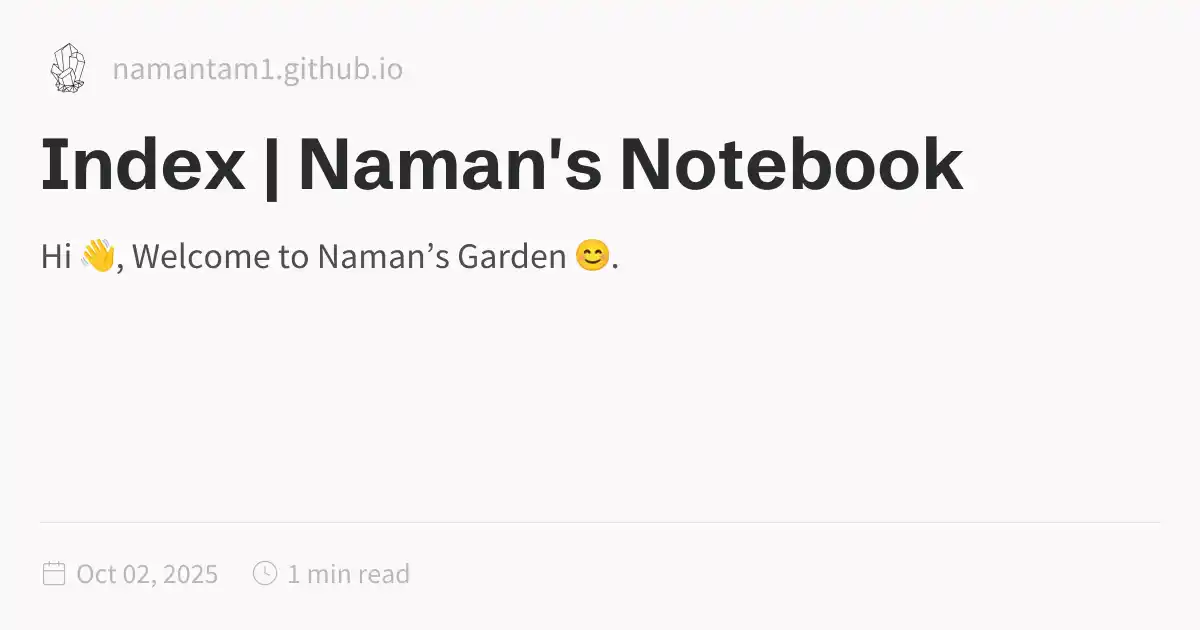
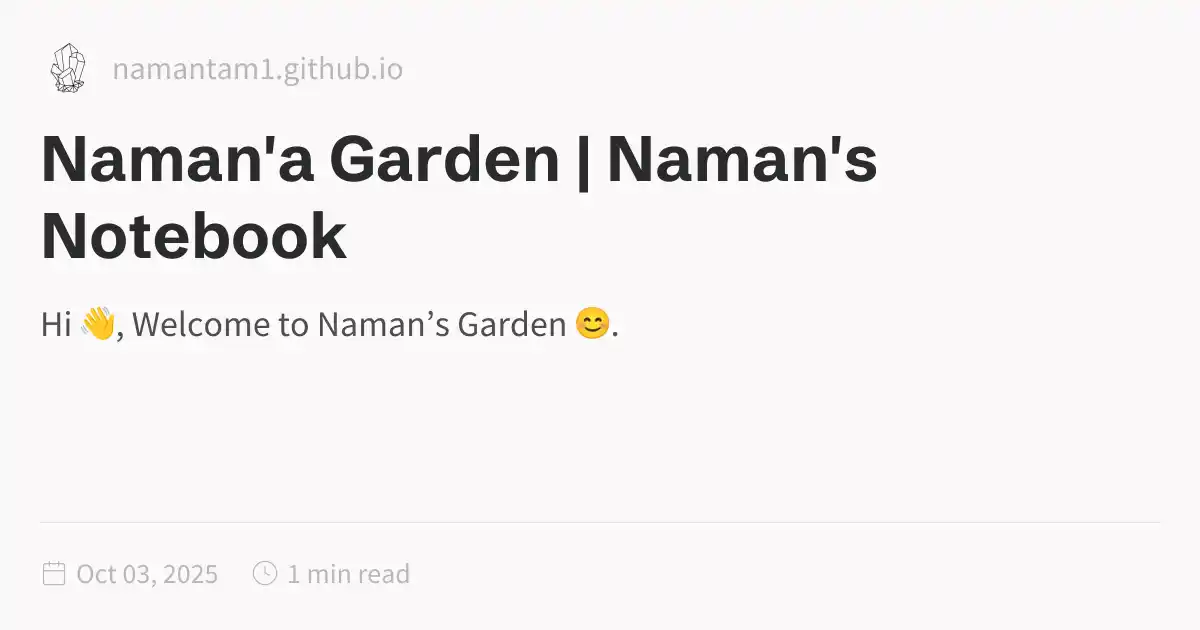
Deploying to gh-pages from @ namantam1/second-brain@c6ce91ad5ee549ccda0e2d463e4b7eefff52ac52 🚀

Changed region(s): [[0.0308, 0.2111, 0.8017, 0.4524], [0.0308, 0.4825, 0.5242, 0.5429]]

diff --git a/Index.html b/Index.html
@@ -1,5 +1,5 @@
 <!DOCTYPE html>
-<html lang="en" dir="ltr"><head><title>Index | Naman's Notebook</title><meta charset="utf-8"/><link rel="preconnect" href="https://fonts.googleapis.com"/><link rel="preconnect" href="https://fonts.gstatic.com"/><link rel="stylesheet" href="https://fonts.googleapis.com/css2?family=Schibsted Grotesk:wght@400;700&amp;family=Source Sans Pro:ital,wght@0,400;0,600;1,400;1,600&amp;family=IBM Plex Mono:wght@400;600&amp;display=swap"/><link rel="preconnect" href="https://cdnjs.cloudflare.com" crossorigin="anonymous"/><meta name="viewport" content="width=device-width, initial-scale=1.0"/><meta name="og:site_name" content="Naman's Garden"/><meta property="og:title" content="Index | Naman's Notebook"/><meta property="og:type" content="website"/><meta name="twitter:card" content="summary_large_image"/><meta name="twitter:title" content="Index | Naman's Notebook"/><meta name="twitter:description" content="Hi 👋, Welcome to Naman’s Garden 😊."/><meta property="og:description" content="Hi 👋, Welcome to Naman’s Garden 😊."/><meta property="og:image:alt" content="Hi 👋, Welcome to Naman’s Garden 😊."/><meta property="twitter:domain" content="namantam1.github.io"/><meta property="og:url" content="https://namantam1.github.io/Index"/><meta property="twitter:url" content="https://namantam1.github.io/Index"/><link rel="icon" href="./static/icon.png"/><meta name="description" content="Hi 👋, Welcome to Naman’s Garden 😊."/><meta name="generator" content="Quartz"/><link href="./index.css" rel="stylesheet" type="text/css" spa-preserve/><style>.expand-button {
+<html lang="en" dir="ltr"><head><title>Naman'a Garden | Naman's Notebook</title><meta charset="utf-8"/><link rel="preconnect" href="https://fonts.googleapis.com"/><link rel="preconnect" href="https://fonts.gstatic.com"/><link rel="stylesheet" href="https://fonts.googleapis.com/css2?family=Schibsted Grotesk:wght@400;700&amp;family=Source Sans Pro:ital,wght@0,400;0,600;1,400;1,600&amp;family=IBM Plex Mono:wght@400;600&amp;display=swap"/><link rel="preconnect" href="https://cdnjs.cloudflare.com" crossorigin="anonymous"/><meta name="viewport" content="width=device-width, initial-scale=1.0"/><meta name="og:site_name" content="Naman's Garden"/><meta property="og:title" content="Naman'a Garden | Naman's Notebook"/><meta property="og:type" content="website"/><meta name="twitter:card" content="summary_large_image"/><meta name="twitter:title" content="Naman'a Garden | Naman's Notebook"/><meta name="twitter:description" content="Hi 👋, Welcome to Naman’s Garden 😊."/><meta property="og:description" content="Hi 👋, Welcome to Naman’s Garden 😊."/><meta property="og:image:alt" content="Hi 👋, Welcome to Naman’s Garden 😊."/><meta property="twitter:domain" content="namantam1.github.io"/><meta property="og:url" content="https://namantam1.github.io/Index"/><meta property="twitter:url" content="https://namantam1.github.io/Index"/><link rel="icon" href="./static/icon.png"/><meta name="description" content="Hi 👋, Welcome to Naman’s Garden 😊."/><meta name="generator" content="Quartz"/><link href="./index.css" rel="stylesheet" type="text/css" spa-preserve/><style>.expand-button {
   position: absolute;
   display: flex;
   float: right;
@@ -116,7 +116,7 @@ pre:hover > .expand-button {
   padding: 0 12px;
   font-size: 14px;
 }
[2 lines of base64/hex data omitted]
                 s-3.542,0.634-4.898,1.688l-7.669-7.669C16.785,10.424,17,9.74,17,9c0-2.206-1.794-4-4-4S9,6.794,9,9s1.794,4,4,4
                 c0.74,0,1.424-0.215,2.019-0.567l7.669,7.669C21.634,21.458,21,23.154,21,25s0.634,3.542,1.688,4.897L10.024,42.562
                 C8.958,41.595,7.549,41,6,41c-3.309,0-6,2.691-6,6s2.691,6,6,6s6-2.691,6-6c0-1.035-0.263-2.009-0.726-2.86l12.829-12.829

diff --git a/index.html b/index.html
@@ -1,5 +1,5 @@
 <!DOCTYPE html>
-<html lang="en" dir="ltr"><head><title>index | Naman's Notebook</title><meta charset="utf-8"/><link rel="preconnect" href="https://fonts.googleapis.com"/><link rel="preconnect" href="https://fonts.gstatic.com"/><link rel="stylesheet" href="https://fonts.googleapis.com/css2?family=Schibsted Grotesk:wght@400;700&amp;family=Source Sans Pro:ital,wght@0,400;0,600;1,400;1,600&amp;family=IBM Plex Mono:wght@400;600&amp;display=swap"/><link rel="preconnect" href="https://cdnjs.cloudflare.com" crossorigin="anonymous"/><meta name="viewport" content="width=device-width, initial-scale=1.0"/><meta name="og:site_name" content="Naman's Garden"/><meta property="og:title" content="index | Naman's Notebook"/><meta property="og:type" content="website"/><meta name="twitter:card" content="summary_large_image"/><meta name="twitter:title" content="index | Naman's Notebook"/><meta name="twitter:description" content="Hi 👋, Welcome to Naman’s Garden 😊."/><meta property="og:description" content="Hi 👋, Welcome to Naman’s Garden 😊."/><meta property="og:image:alt" content="Hi 👋, Welcome to Naman’s Garden 😊."/><meta property="twitter:domain" content="namantam1.github.io"/><meta property="og:url" content="https://namantam1.github.io/index"/><meta property="twitter:url" content="https://namantam1.github.io/index"/><link rel="icon" href="./static/icon.png"/><meta name="description" content="Hi 👋, Welcome to Naman’s Garden 😊."/><meta name="generator" content="Quartz"/><link href="./index.css" rel="stylesheet" type="text/css" spa-preserve/><style>.expand-button {
+<html lang="en" dir="ltr"><head><title>Naman'a Garden | Naman's Notebook</title><meta charset="utf-8"/><link rel="preconnect" href="https://fonts.googleapis.com"/><link rel="preconnect" href="https://fonts.gstatic.com"/><link rel="stylesheet" href="https://fonts.googleapis.com/css2?family=Schibsted Grotesk:wght@400;700&amp;family=Source Sans Pro:ital,wght@0,400;0,600;1,400;1,600&amp;family=IBM Plex Mono:wght@400;600&amp;display=swap"/><link rel="preconnect" href="https://cdnjs.cloudflare.com" crossorigin="anonymous"/><meta name="viewport" content="width=device-width, initial-scale=1.0"/><meta name="og:site_name" content="Naman's Garden"/><meta property="og:title" content="Naman'a Garden | Naman's Notebook"/><meta property="og:type" content="website"/><meta name="twitter:card" content="summary_large_image"/><meta name="twitter:title" content="Naman'a Garden | Naman's Notebook"/><meta name="twitter:description" content="Hi 👋, Welcome to Naman’s Garden 😊."/><meta property="og:description" content="Hi 👋, Welcome to Naman’s Garden 😊."/><meta property="og:image:alt" content="Hi 👋, Welcome to Naman’s Garden 😊."/><meta property="twitter:domain" content="namantam1.github.io"/><meta property="og:url" content="https://namantam1.github.io/index"/><meta property="twitter:url" content="https://namantam1.github.io/index"/><link rel="icon" href="./static/icon.png"/><meta name="description" content="Hi 👋, Welcome to Naman’s Garden 😊."/><meta name="generator" content="Quartz"/><link href="./index.css" rel="stylesheet" type="text/css" spa-preserve/><style>.expand-button {
   position: absolute;
   display: flex;
   float: right;
@@ -116,7 +116,7 @@ pre:hover > .expand-button {
   padding: 0 12px;
   font-size: 14px;
 }
[2 lines of base64/hex data omitted]
                 s-3.542,0.634-4.898,1.688l-7.669-7.669C16.785,10.424,17,9.74,17,9c0-2.206-1.794-4-4-4S9,6.794,9,9s1.794,4,4,4
                 c0.74,0,1.424-0.215,2.019-0.567l7.669,7.669C21.634,21.458,21,23.154,21,25s0.634,3.542,1.688,4.897L10.024,42.562
                 C8.958,41.595,7.549,41,6,41c-3.309,0-6,2.691-6,6s2.691,6,6,6s6-2.691,6-6c0-1.035-0.263-2.009-0.726-2.86l12.829-12.829
